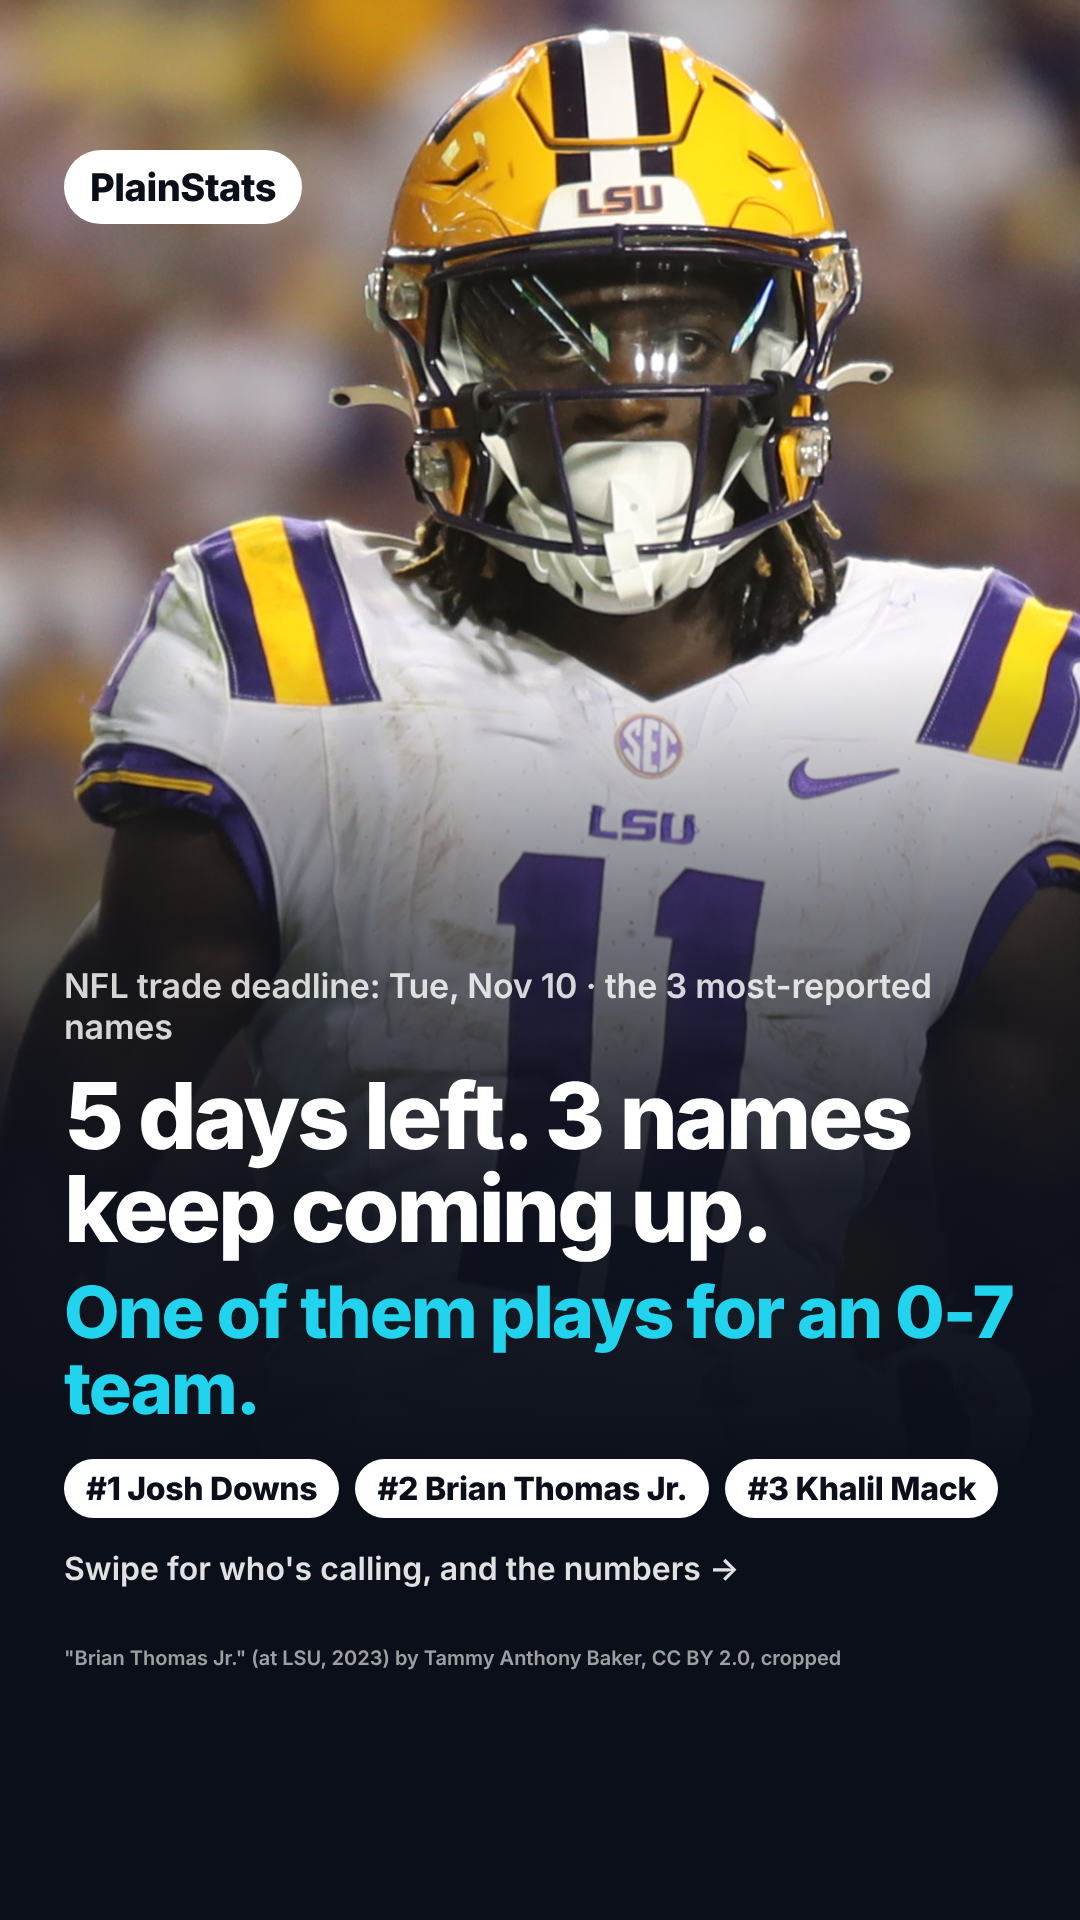
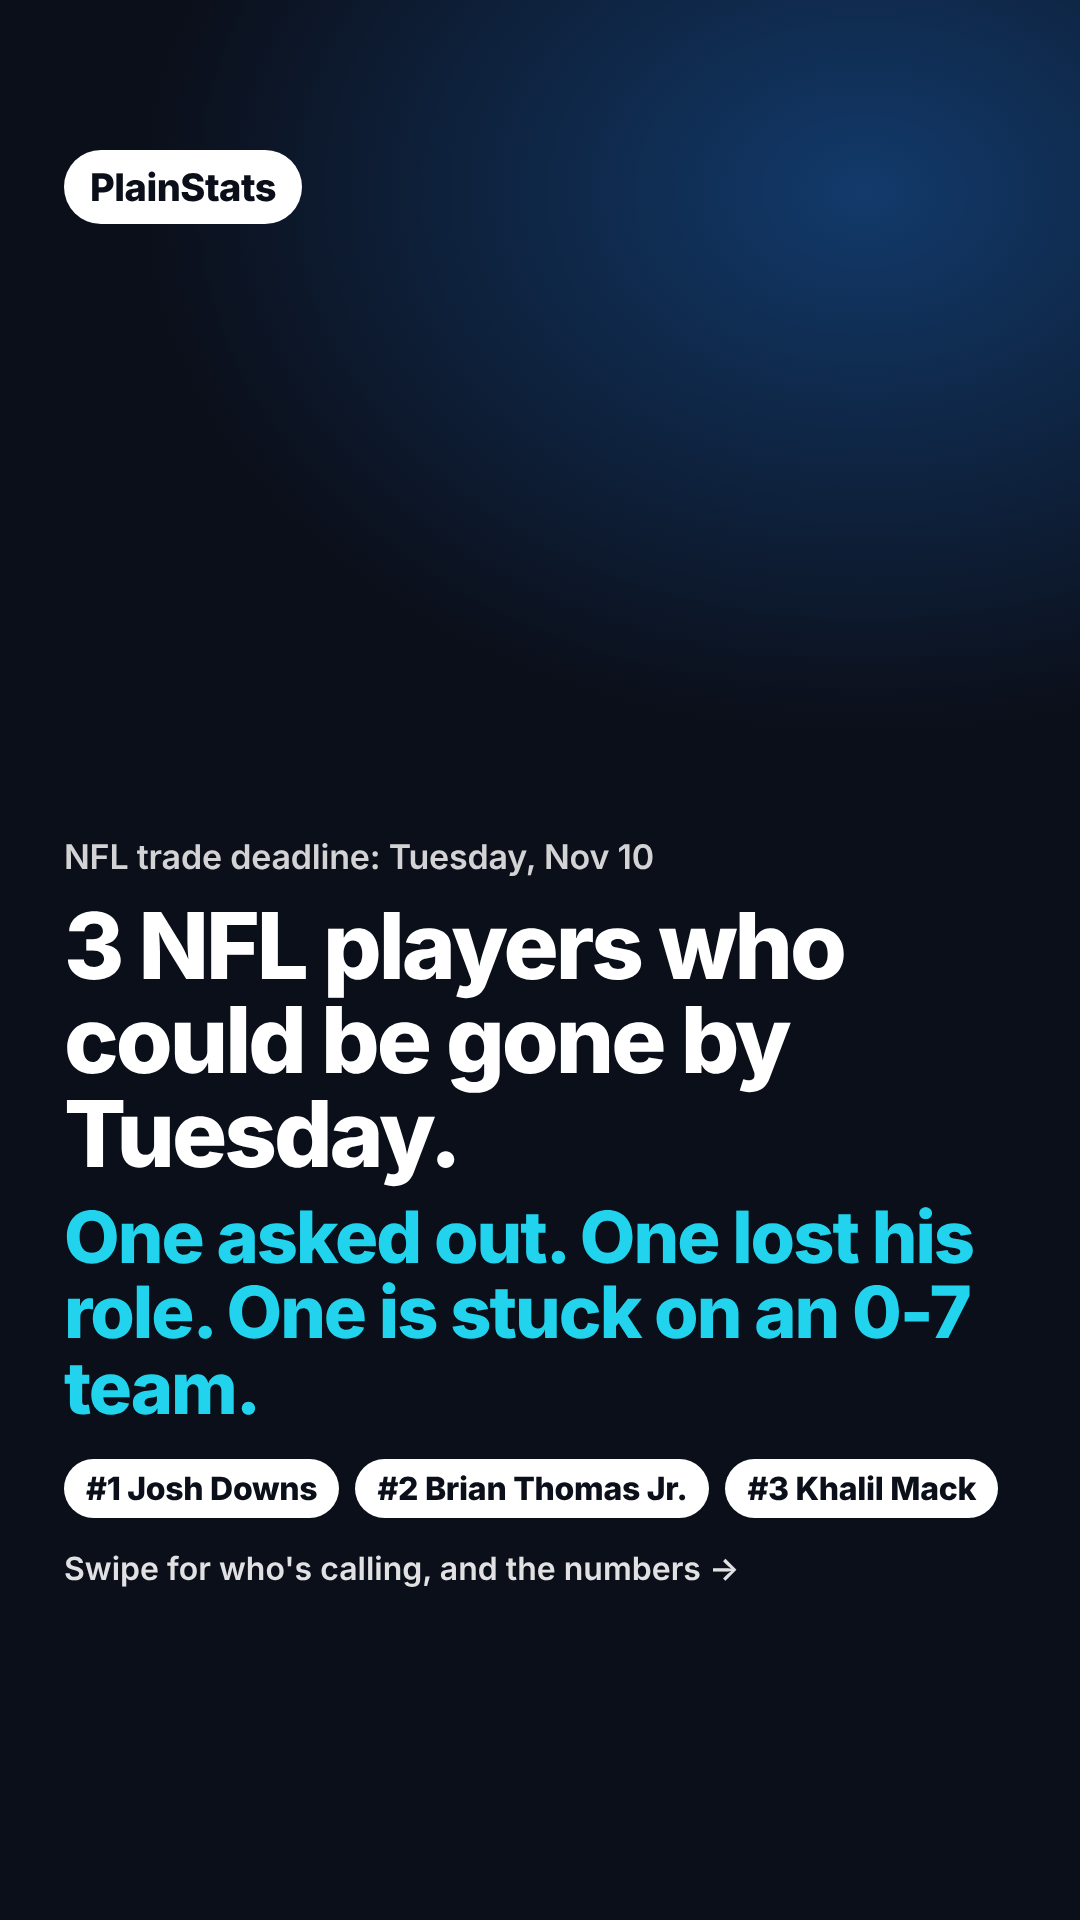
Trade deadline post: catchier hook, drop '#1 team' line and the LSU photo
Claude-Session: https://claude.ai/code/session_01McRLt3FcTurQaNifg3fBXM

diff --git a/social/2026-11-05-trade-deadline-top3/captions.md b/social/2026-11-05-trade-deadline-top3/captions.md
@@ -4,23 +4,23 @@ Slides: 01-cover, 02-downs, 03-thomas, 04-mack, 05-outro (1080x1920, works for T
 
 ## Instagram
 
-5 days to the NFL trade deadline. These 3 names keep coming up 👇
+3 NFL players who could be gone by Tuesday 👇 One asked out. One lost his role. One is stuck on an 0-7 team.
 
 1⃣ Josh Downs (Colts WR) asked for a trade. The 6-2 Steelers are among the interested teams, and their passing offense ranks 26th.
-2⃣ Brian Thomas Jr. (Jaguars WR) is playing 41% of snaps for the NFL's #1 team. The league expects he'd cost about a 3rd-round pick.
+2⃣ Brian Thomas Jr. (Jaguars WR) is on the field for 41% of snaps. The league expects he'd cost about a 3rd-round pick.
 3⃣ Khalil Mack (Chargers EDGE): LA is 0-7, the Bears called, and Harbaugh calls Mack "one of the pillars of our team."
 
 Who actually moves by Tuesday? Drop your pick 👇
 
 Every deal, cap number and pick as it happens: plainstatsnfl.com/trade-deadline (link in bio)
 
-Sources: ESPN's Jeremy Fowler, Jordan Schultz, Yahoo Sports' Jori Epstein, FOX Sports, NFL Network's Ian Rapoport, AP. Stats through Week 8 (nflverse). Photo: Tammy Anthony Baker (CC BY 2.0).
+Sources: ESPN's Jeremy Fowler, Jordan Schultz, Yahoo Sports' Jori Epstein, FOX Sports, NFL Network's Ian Rapoport, AP. Stats through Week 8 (nflverse).
 
 #NFL #NFLTradeDeadline #TradeDeadline #JoshDowns #BrianThomasJr #KhalilMack #Colts #Jaguars #Chargers #Steelers #Bears #NFLRumors #FantasyFootball
 
 ## TikTok
 
-3 trades that could happen before Tuesday's NFL deadline 👀 #1 asked out. #2 plays for the best team in football. #3 is on an 0-7 team. Who moves? 👇 Full tracker: plainstatsnfl.com/trade-deadline
+3 NFL players who could be gone by Tuesday 👀 One asked out. One lost his role. One is stuck on an 0-7 team. Who moves? 👇 Full tracker: plainstatsnfl.com/trade-deadline
 
 #NFL #NFLTradeDeadline #JoshDowns #BrianThomasJr #KhalilMack #Steelers #Bears #Jaguars #footballtiktok #nflnews
 
@@ -28,5 +28,5 @@ Sources: ESPN's Jeremy Fowler, Jordan Schultz, Yahoo Sports' Jori Epstein, FOX S
 - Downs: trade request reported by ESPN's Jeremy Fowler (Oct 28). Steelers named among interested AFC teams by Jordan Schultz. 30 rec, 330 yds, 1 TD, 20% target share in 8 games. 2026 cap hit $3,928,608 (CBA rookie scale, confirmed in data/nfl.json); rookie deal ends 2026.
 - Thomas Jr.: 10 rec, 117 yds, 2 TD, 41% offensive snap share in 7 games. Cap hit $3,683,601 (CBA rookie scale). "About a 3rd-round pick": Jori Epstein, Yahoo Sports. Fowler: Jaguars have not "shown a willingness" to trade him. No destination has been reported, so the slide doesn't name one (a Chiefs link appears only in speculation pieces).
 - Mack: 3 sacks, 6 QB hits in 7 games. $18M, one year, fully guaranteed (AP via WSLS, ledger). His 2026 cap hit is not confirmed in our data, so the slide shows only the AP contract. Bears call: FOX Sports report (relayed by Yahoo/SI). Rapoport quote: "Wouldn't be surprised if a Khalil Mack trade was in the offer here." Harbaugh quote after the 0-7 loss.
-- Team records come from data/schedule.json. Ranks (Jaguars #1, Steelers 26th in EPA per pass play) come from data/tiers.json through Week 8.
+- Team records come from data/schedule.json. Steelers' rank (26th in EPA per pass play) come from data/tiers.json through Week 8.
 - Left out by request: Jonathan Taylor. Also left out: Jacoby Brissett (Ravens deal already being finalized) and Jauan Jennings (49ers deal fell through).
